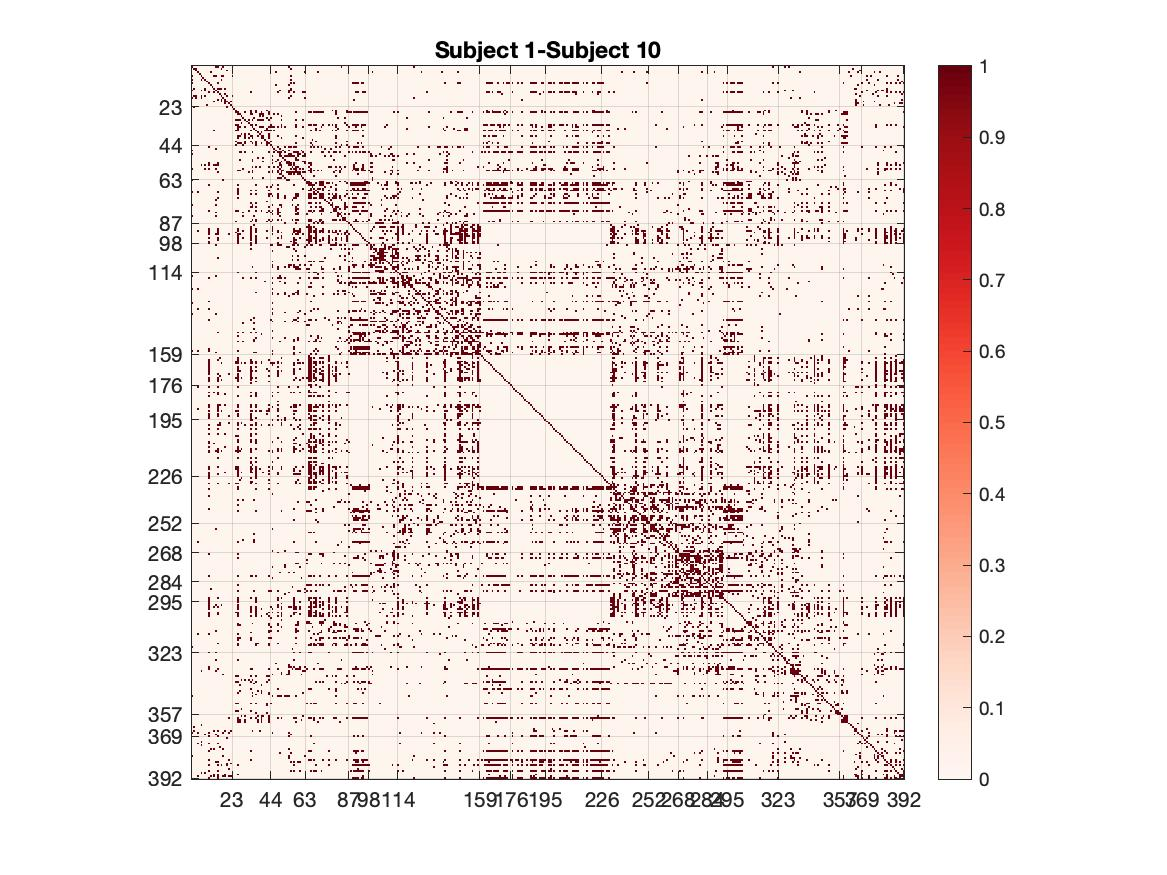
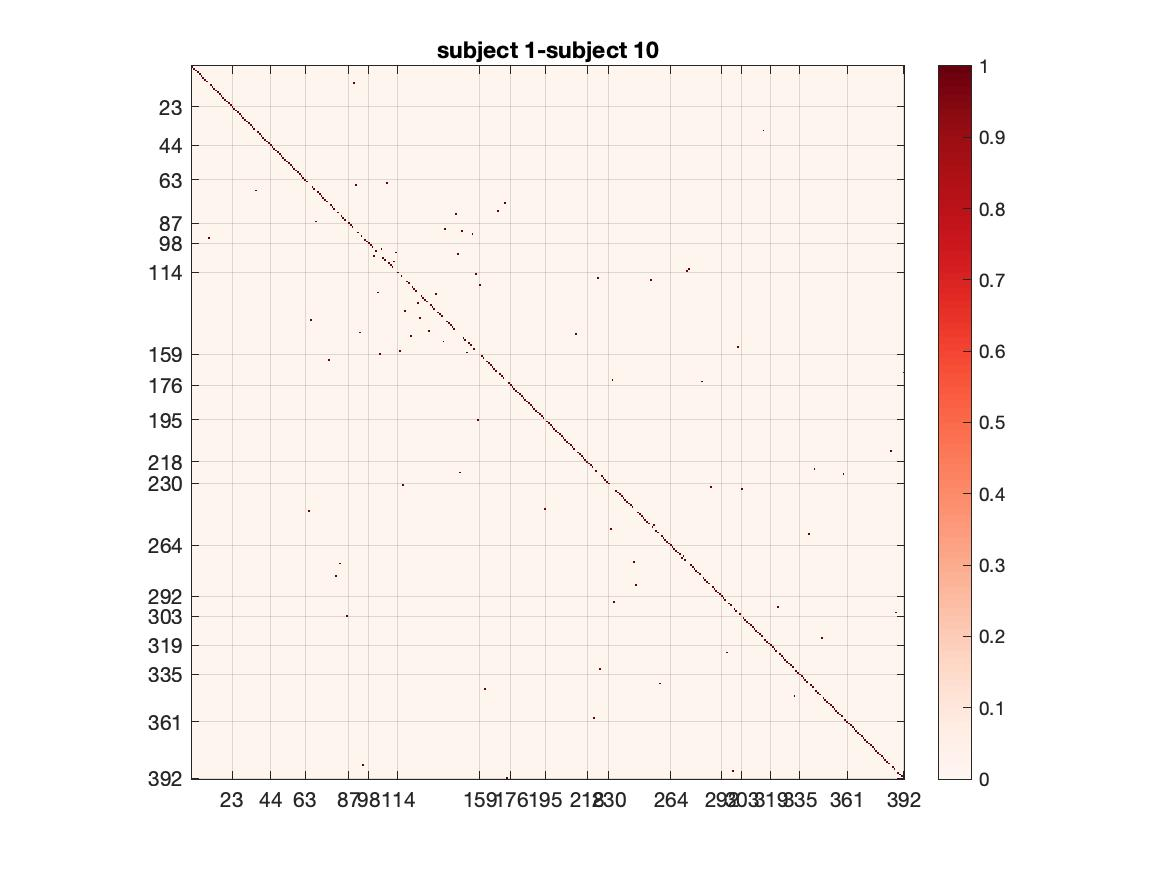
chore: improve vis for sample results

diff --git a/sample_results.m b/sample_results.m
@@ -1,19 +1,21 @@
-% Illustration of how regular matrices can be recovered from the sparse
+% 1. Illustration of how regular matrices can be recovered from the sparse
 % representation
-% sanity check of the permutation matrices using visualization
+% 2. Sanity check of the permutation matrices using visualization
 %
 
 penalty_m = load('output/yeo_penalty.mat').yeo_p;
 
 i_ref=1;
-load(strcat('output/matching_results/P_', num2str(i_ref), '_', penalty, '.mat'));
+ref_popu='test';
+penalty = 'yeo';
+load(strcat('output/matching_results/P_', ref_popu,'_', num2str(i_ref), '_', penalty, '.mat'));
 
 %% recover the permutation matrix from its sparse representation
 p = 392;
 
 % recover the permutation matrix for matching subject 1 to subject 10
 j = 10;
-P_1_10 = full(sparse(swap_positions(j, :, 1),swap_positions(j, :, 2), 1, p, p));
+P_to_10 = full(sparse(swap_positions(j, :, 1),swap_positions(j, :, 2), 1, p, p));
 
 % recover the sum of permutation matrices across matching to subject 1-997
 P_sum=full(sparse(sum_swaps(:, 1), sum_swaps(:, 2), sum_swaps(:, 3), p, p));
@@ -26,6 +28,7 @@ yeo_mapping = load('output/yeo_index.mat');
 
 % initiate red blue map for plotting FC maps and red maps for plotting
 % permutation matrices
+
 redmap =  brewermap(100, 'Reds');
 
 % illustrate plot_heatmap(): plot penalty matrix
@@ -34,12 +37,18 @@ plot_heatmap(penalty_m(yeo_mapping.re_index, yeo_mapping.re_index), [0 1], redma
     'Yeo penalty', yeo_mapping.cluster_count, true(1));
 
 % permutation matrix of matchin gsubject 1 to subject 10
+plot_heatmap(P_to_10(yeo_mapping.re_index, yeo_mapping.re_index), [0 1], redmap, ...
+    'subject 1-subject 10', yeo_mapping.cluster_count, true(1));
+
+% sum of permutation matrices
+% set the range to be [0,50] swaps
+plot_heatmap(P_sum(yeo_mapping.re_index, yeo_mapping.re_index), [0 50], redmap, ...
+    'sum of subject 1-all other subjects (max=50)', yeo_mapping.cluster_count, true(1));
+% set the range to be [0,1] swaps
+% i.e. red color denotes 'at least one swaps when matching to 997 subjects'
 plot_heatmap(P_sum(yeo_mapping.re_index, yeo_mapping.re_index), [0 1], redmap, ...
-    'Subject 1-Subject 10', yeo_mapping.cluster_count, true(1));
+    'sum of subject 1-all other subjects (max=1)', yeo_mapping.cluster_count, true(1));
 % It should be clear from this figure that all permutations in the
 % limbic-subcortical-cerebellum region are 'muted'
 
-% sum of permutation matrices
-plot_heatmap(P_sum(yeo_mapping.re_index, yeo_mapping.re_index), [0 100], redmap, ...
-    'sum of Subject 1- 997', yeo_mapping.cluster_count, true(1));
 
